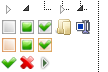
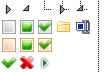
general improvments

diff --git a/ide/js/main.js b/ide/js/main.js
@@ -28,6 +28,7 @@ function(config, createLayout, editors, buildBarMain, buildBarEditor, buildBarSt
     precog.cache.disable();
 
     var layout = createLayout(config.get("ioPanesVertical"));
+    layout.container.hide();
 
     buildBarMain(layout.getBarMain());
     buildBarEditor(layout.getBarEditor());
@@ -45,7 +46,6 @@ function(config, createLayout, editors, buildBarMain, buildBarEditor, buildBarSt
     });
 
     var editor = buildEditor(layout.getCodeEditor(), config.get("ioPanesVertical"));
-
     editor.setTabSize(config.get("tabSize"));
     editor.setUseSoftTabs(config.get("softTabs"));
 
@@ -120,16 +120,19 @@ function(config, createLayout, editors, buildBarMain, buildBarEditor, buildBarSt
         editor.triggerExecute();
     });
 
+    theme.set(config.get("theme", "franco"));
+
     editors.load();
     if(!editors.count()) editors.add();
-    editors.activate(0);
+    setTimeout(function() {
+        editors.activate(0); // prevents bug in safari
+    }, 15)
+
 
     $(output).on("optionsChanged", function(_, options) {
 //console.log("SAVING OPTIONS " + JSON.stringify(options));
         editors.setOutputOptions(options);
     });
-
-    theme.set(config.get("theme", "franco"));
 
     config.monitor.bind("theme", function(e, name) {
         theme.set(name);
@@ -144,4 +147,6 @@ function(config, createLayout, editors, buildBarMain, buildBarEditor, buildBarSt
 //console.log("from config tabSize " + value);
         editor.setTabSize(value);
     });
+
+    layout.container.show();
 });

diff --git a/ide/js/app/folders.js b/ide/js/app/folders.js
@@ -33,13 +33,12 @@ function(precog, ui, tplToolbar){
         });
 
         function triggerQuery(path) {
-//            path = "/" + path.substr(basePath.length === 1 ? 1 : basePath.length + 1);
             $(wrapper).trigger("querypath", path);
         }
 
         function addFolder(name, path, callback, parent) {
             if(!parent) parent = -1;
-            tree.jstree(
+            return tree.jstree(
                   "create_node"
                 , parent
                 , {
@@ -78,6 +77,7 @@ function(precog, ui, tplToolbar){
                     subpath = base + subpath;
                     addFolder(subpath.split("/").pop(), subpath, function(){
                         if(levels > 1) {
+                            var $this = $(this);
                             loadAtPath(subpath, levels-1, this);
                         }
                     }, parent || -1);
@@ -86,7 +86,7 @@ function(precog, ui, tplToolbar){
         }
 
         ui.button(elContext, {
-            label   : "refresh",
+            icon   : "ui-icon-refresh",
             handler : function() { wrapper.refresh(); }
         });
 

diff --git a/ide/js/app/util/output-table.js b/ide/js/app/util/output-table.js
@@ -23,6 +23,9 @@ function() {
             , multiColumnSort: true
         },
         wrapper;
+
+    grid = new Slick.Grid(elOutput, dataView, [], gridOptions);
+
     dataView.setPagingOptions({
         pageSize: 20
     });
@@ -172,13 +175,18 @@ function() {
             if(!options) options = {};
             if(changePagerHandler)
                 dataView.onPagingInfoChanged.unsubscribe(changePagerHandler);
-            if(grid) grid.destroy();
+            try {
+                if(grid) grid.destroy();
+            } catch(e) {}
+
 
             var model = createModel(data && data.length > 0 && data[0] || []);
 
             data = transformData(model, data);
 
-            grid = new Slick.Grid(elOutput, dataView, model, gridOptions);
+            try {
+                grid = new Slick.Grid(elOutput, dataView, model, gridOptions);
+            } catch(e) {}
 
             changePagerHandler = function(e, args) {
                 options.pager = { size : args.pageSize, page : args.pageNum };

diff --git a/ide/js/app/util/storage.js b/ide/js/app/util/storage.js
@@ -7,7 +7,6 @@ function(traverse) {
     return function(key, defaults) {
         var dirty  = false,
             params = $.extend({}, defaults);
-
         function save() {
             $.jStorage.set(key, params)
             dirty = false;
@@ -17,7 +16,7 @@ function(traverse) {
             if(enableDebug)
                 console.log("Load Storage Data");
             $.jStorage.reInit();
-            var value = $.jStorage.get(key, {});
+            var value = $.jStorage.get(key);
             $.extend(params, value);
         }
 

diff --git a/ide/js/app/util/config.js b/ide/js/app/util/config.js
@@ -3,7 +3,8 @@ define(["util/storagemonitor"], function(createStore) {
         defaults = {
             theme : "gray",
             indentUsingSpaces : false,
-            tabWidth : 2,
+            tabSize : 2,
+            softTabs : true,
             disableClientCache : true,
             ioPanesVertical : true
         };

diff --git a/ide/css/main.css b/ide/css/main.css
@@ -210,6 +210,14 @@
     overflow : auto;
 }
 
+.pg-structure.jstree.jstree-default {
+    background-color: transparent;
+}
+
+.pg-structure ins.jstree-themeicon {
+/*    display: none; */
+}
+
 /*
 .pg-ide .ui-dialog {
     font-size: 25%;
